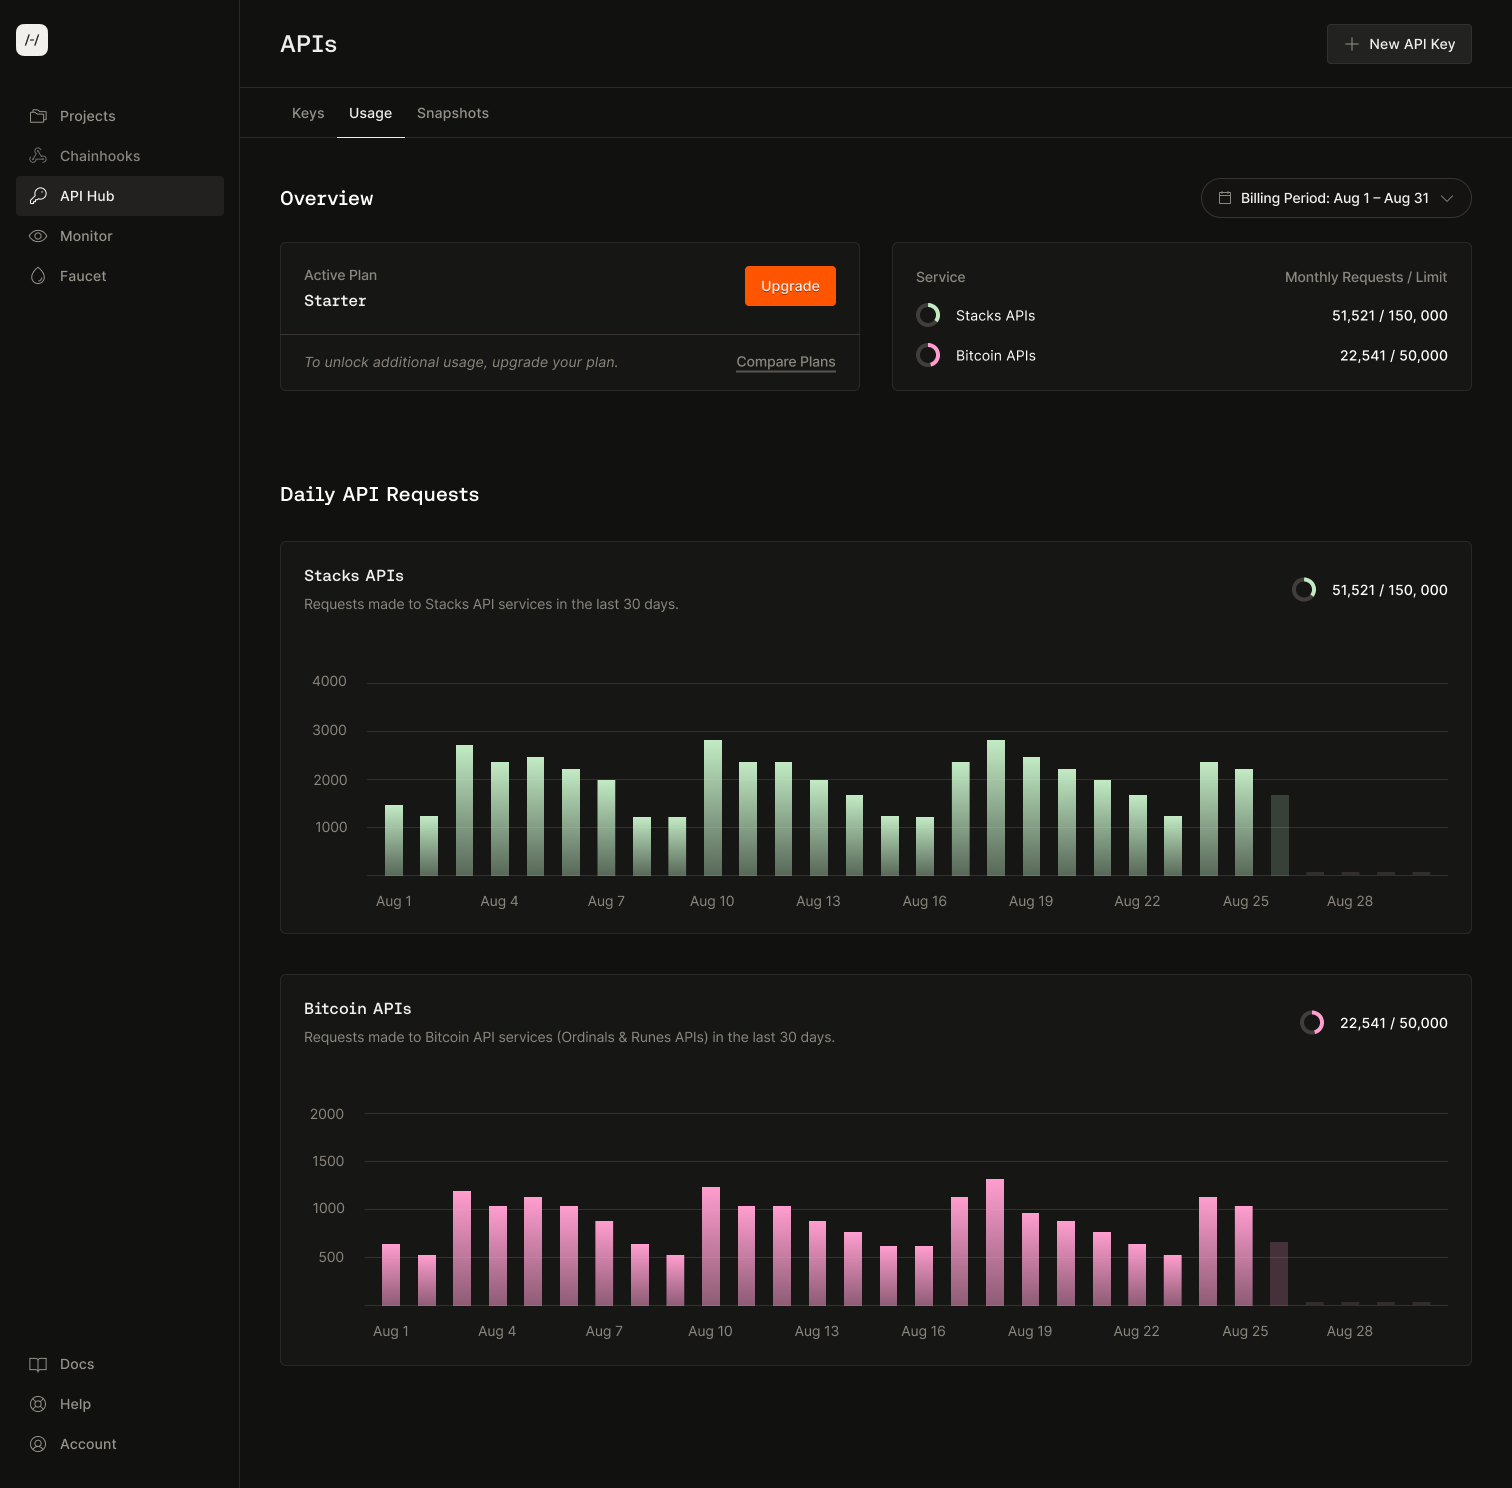
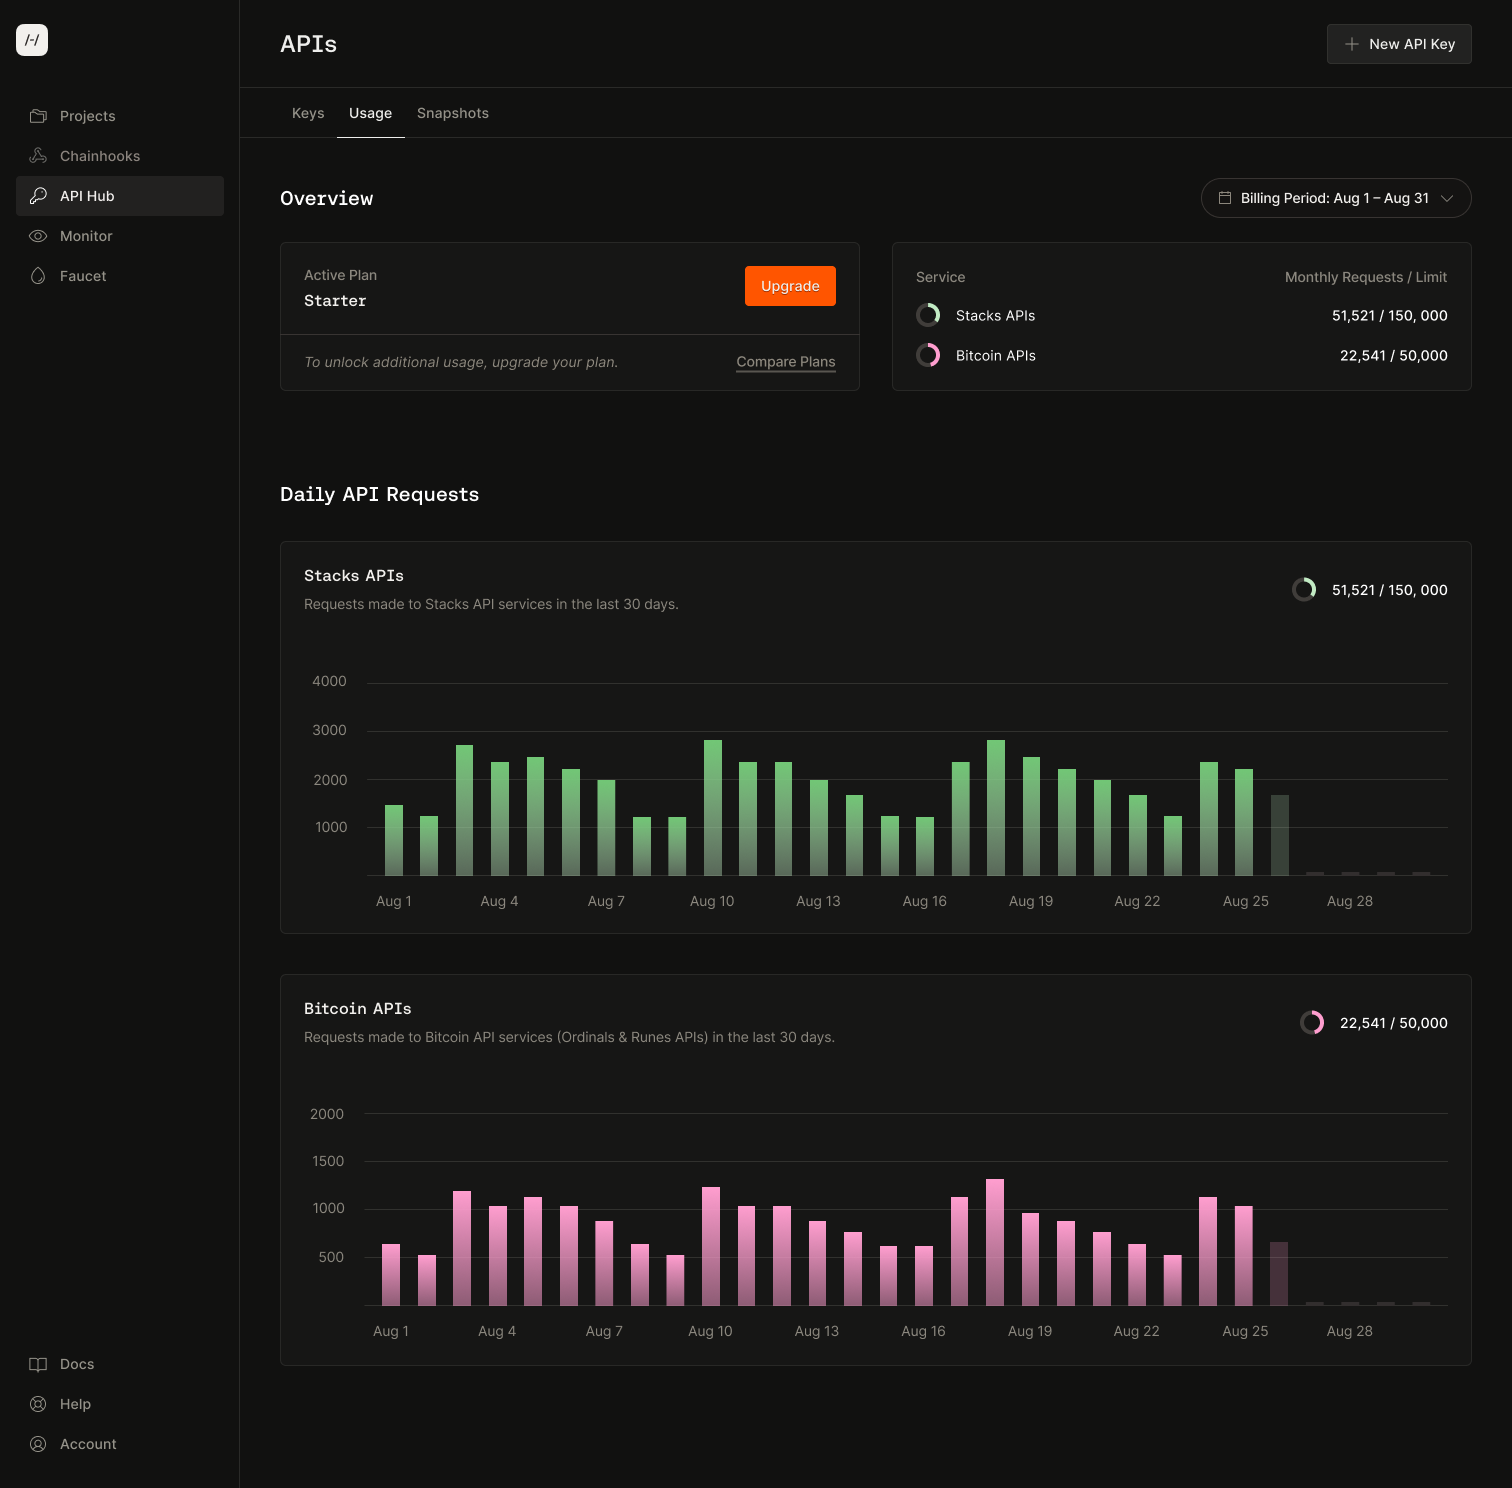
Reorder Hiro ahead of near.dev and tune spot positioning
Move hiro back to the top of the work section, add a vertical offset
for its homepage spot image, and tighten the case study overview
spacing. Updated spot illustration and two screenshot touch-ups.

Changed region(s): [[0.2487, 0.4946, 0.8393, 0.5874]]

diff --git a/src/pages/CaseStudy.js b/src/pages/CaseStudy.js
@@ -104,7 +104,7 @@ const Overview = styled.section`
   grid-template-columns: 1.5fr 1fr;
   grid-row-gap: var(--spacing-32);
   width: 100%;
-  margin: var(--spacing-96) auto var(--spacing-48);
+  margin: var(--spacing-64) auto var(--spacing-48);
   padding: var(--spacing-16);
 
   @media (min-width: 768px) {

diff --git a/src/components/WorkSection.js b/src/components/WorkSection.js
@@ -78,6 +78,12 @@ const FeaturedImageContainer = styled.div`
       }
     }
   }
+
+  &.hiro {
+    img {
+      top: var(--spacing-32);
+    }
+  }
 `;
 
 const ProjectSummary = styled.div`
